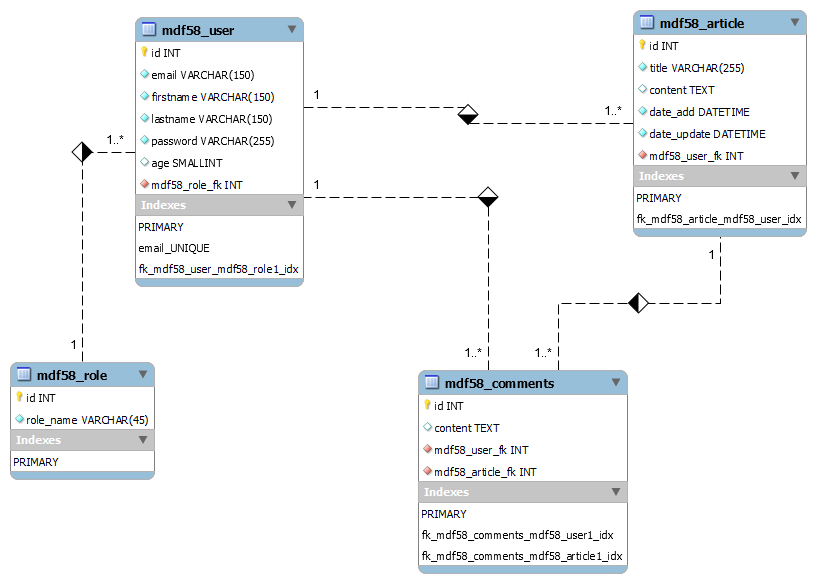
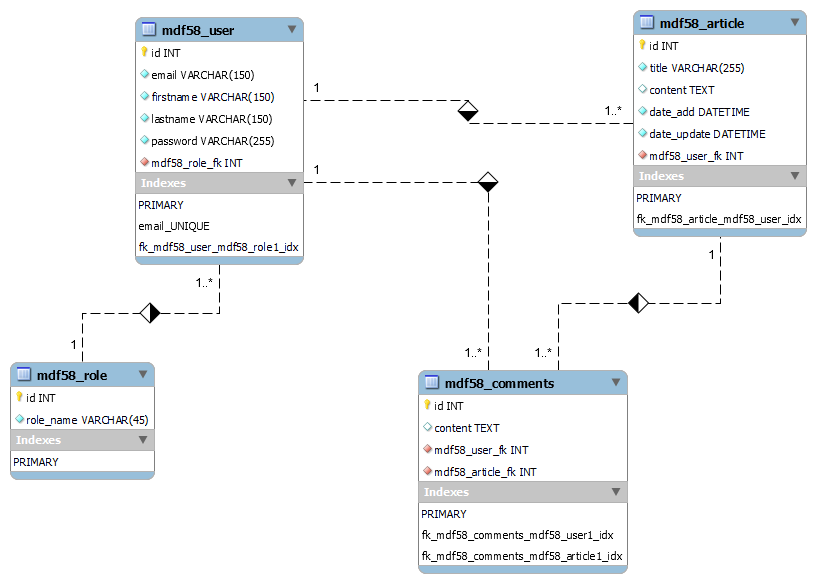
contact and remove age in BDD

diff --git a/public/assets/css/style.css b/public/assets/css/style.css
@@ -69,7 +69,7 @@ a {
     text-align: center;
 }
 
-#register-container {
+#register-container, #contact-container {
     border: 1px solid black;
     width: 50vw;
     margin: 0 auto;
@@ -77,6 +77,10 @@ a {
     padding: 3rem;
 }
 
+#contact-container textarea {
+    display: block;
+    margin: 0 auto;
+}
 
 #login-container input, #register-container input, #contact-container input, #profile-container input {
     margin: 1rem;
@@ -84,10 +88,22 @@ a {
     border-radius: 0.3rem;
 }
 
+#contact-container input {
+    width: 20rem;
+    display: block;
+    margin: 0 auto;
+}
+
+#contact-container button {
+    width: 15rem;
+}
+
 #register-container input {
     margin: 0.4rem auto;
     border-radius: 0.3rem;
 }
+
+
 
 label {
     width: 12vw;

diff --git a/Controller/UserController.php b/Controller/UserController.php
@@ -19,7 +19,7 @@ class UserController extends AbstractController
         self::redirectIfConnected();
         if (isset($_POST['submit'])) {
             if (!$this->formIsset
-            ('email', 'firstname', 'lastname', 'password', 'password-repeat','age')) {
+            ('email', 'firstname', 'lastname', 'password', 'password-repeat')) {
                 header("Location: /?c=user&f=1");
             }
 
@@ -28,15 +28,12 @@ class UserController extends AbstractController
             $lastname = $this->dataClean(filter_var($_POST['lastname'], FILTER_SANITIZE_STRING));
             $password = password_hash($_POST['password'], PASSWORD_ARGON2I);
             $passwordRepeat = $_POST['password-repeat'];
-            $age = trim(filter_var($_POST['age'], FILTER_SANITIZE_NUMBER_INT));
-
 
             $user = (new User())
                 ->setEmail($mail)
                 ->setFirstname($firstname)
                 ->setLastname($lastname)
                 ->setPassword($password)
-                ->setAge($age)
                 ->setRole(1)
                 ;
 
@@ -114,11 +111,12 @@ class UserController extends AbstractController
     /**
      * @return void
      */
-    public function saveForm() {
-        if (isset($_POST['email'])) {
+    public function saveForm()
+    {
+        if (isset($_POST['mail'])) {
             $name = trim(strip_tags($_POST['name']));
             $message = trim(strip_tags($_POST['message']));
-            $userMail = trim(strip_tags($_POST['email']));
+            $userMail = trim(strip_tags($_POST['mail']));
 
             $to = 'dehainaut.angelique@orange.fr';
             $subject = "Vous avez un message";
@@ -127,17 +125,16 @@ class UserController extends AbstractController
                 'X-Mailer' => 'PHP/' . phpversion()
             );
             if (filter_var($userMail, FILTER_VALIDATE_EMAIL)) {
-                if (strlen($message) >=20 && strlen($message) <= 250) {
+                if (strlen($message) >= 20 && strlen($message) <= 250) {
                     if (mail($to, $subject, $message, $headers, $userMail)) {
-                        $_SESSION['email'] = "mail-success";
+                        $_SESSION['mail'] = "mail-success";
                     } else {
-                        $_SESSION['email'] = "mail-error";
+                        $_SESSION['mail'] = "mail-error";
                     }
                     header('Location: /index.php?c=user&a=save-form');
                 }
             }
-        }
-        else {
+        } else {
             $this->render('form/contact');
         }
     }

diff --git a/View/form/contact.html.php b/View/form/contact.html.php
@@ -1,4 +1,10 @@
-<div class="container">
+<?php
+    if (isset($_SESSION['message'])) {?>
+
+        <?php
+    }?>
+
+<div id="container-contact" class="container">
     <div id="contact-container">
         <form action="/?c=user&a=save-form" method="post">
             <div>
@@ -8,16 +14,14 @@
                 <label for="mail"></label>
                 <input type="email" name="mail" id="mail" placeholder="Entrez votre mail" required>
 
-                <div>
-                    <label for="message"></label>
-                    <textarea
-                            name="message" id="message" cols="60" rows="20" minlength="20" maxlength="250"
-                            placeholder="Votre messsage" required>
-                    </textarea>
-                </div>
+                <label for="message"></label>
+                <textarea
+                        name="message" id="message" cols="30" rows="10" minlength="20" maxlength="250" placeholder="Votre messsage" required>
+
+                </textarea>
 
                 <div>
-                    <button class="btn btn-secondary" type="submit" name="submit" id="submit">Envoyer</button>
+                    <button class="btn btn-secondary" type="submit" name="submit">Envoyer</button>
                 </div>
             </div>
         </form>
@@ -26,9 +30,13 @@
 
 <?php
 if (isset($_SESSION['mail'])) {
-    if ($_SESSION['mail'] === "mail-success") {
-        echo "Le mail est bien envoyé ";
-    } else {
+    if ($_SESSION['mail'] === "mail-success") {?>
+        <div class="message">
+            <p>Votre message a bien été envoyé.</p>
+            <button id="close">x</button>
+        </div><?php
+    }
+    else {
         echo "Erreur lors de l'envoi";
     }
 }

diff --git a/Model/Manager/UserManager.php b/Model/Manager/UserManager.php
@@ -50,7 +50,6 @@ class UserManager
                         ->setFirstname($user['firstname'])
                         ->setLastname($user['lastname'])
                         ->setPassword($user['password'])
-                        ->setAge($user['age'])
                     ;
 
                     if (!isset($_SESSION['user'])) {
@@ -90,7 +89,6 @@ class UserManager
             ->setEmail($data['email'])
             ->setLastname($data['lastname'])
             ->setFirstname($data['firstname'])
-            ->setAge($data['age'])
             ->setRole($data['mdf58_role_fk']);
     }
 
@@ -121,15 +119,14 @@ class UserManager
     public static function addUser(User &$user): bool
     {
         $stmt = Connect::dbConnect()->prepare("
-            INSERT INTO " . self::TABLE . " (email, firstname, lastname, password,age, mdf58_role_fk) 
-            VALUES (:email, :firstname, :lastname, :password, :age, :mdf58_role_fk)
+            INSERT INTO " . self::TABLE . " (email, firstname, lastname, password, mdf58_role_fk) 
+            VALUES (:email, :firstname, :lastname, :password, :mdf58_role_fk)
         ");
 
         $stmt->bindValue(':email', $user->getEmail());
         $stmt->bindValue(':firstname', $user->getFirstname());
         $stmt->bindValue(':lastname', $user->getLastname());
         $stmt->bindValue(':password', $user->getPassword());
-        $stmt->bindValue(':age', $user->getAge());
         $stmt->bindValue(':mdf58_role_fk', $user->getRole());
 
         $result = $stmt->execute();

diff --git a/Model/Entity/User.php b/Model/Entity/User.php
@@ -10,7 +10,6 @@ class User extends AbstractEntity
     private string $firstname;
     private string $lastname;
     private string $password;
-    private int $age;
     private int $role;
 
     /**
@@ -104,23 +103,4 @@ class User extends AbstractEntity
         $this->password = $password;
         return $this;
     }
-
-    /**
-     * @return int
-     */
-    public function getAge(): int
-    {
-        return $this->age;
-    }
-
-    /**
-     * @param int $age
-     * @return User
-     */
-    public function setAge(int $age): self
-    {
-        $this->age = $age;
-        return $this;
-    }
-
 }

diff --git a/View/user/register.html.php b/View/user/register.html.php
@@ -29,13 +29,6 @@
                 </div>
             </div>
 
-           <div>
-               <div>
-                   <label for="age">Age</label>
-                   <input type="number" id="age" name="age" required>
-               </div>
-           </div>
-
             <input class="btn btn-secondary" type="submit" name="submit" id="submit" value="S'inscrire">
         </form>
     </div>

diff --git a/View/user/profile.html.php b/View/user/profile.html.php
@@ -37,7 +37,7 @@ $user = $data['profile'];
 
         </div>
 
-        <a id="account-deletion" href="/index.php?c=user&a=delete-user&id=<?= $user->getId() ?>">Suppression du compte</a>
+        <a href="/index.php?c=user&a=delete-user&id=<?= $user->getId() ?>">Suppression du compte</a>
     </form>
 </div>
 
